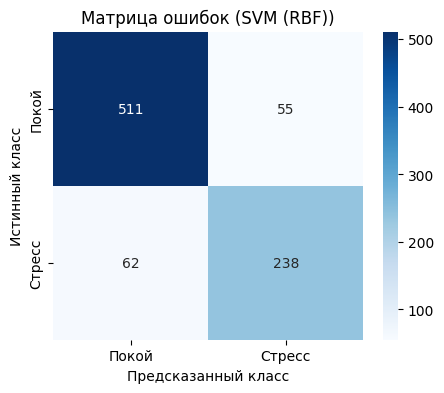
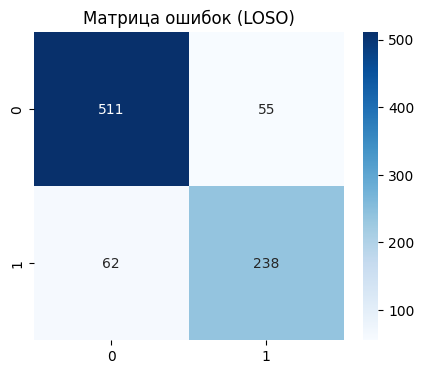
feat: add PR curve, local SHAP, HR trend and performance margins

diff --git a/src/models/train.py b/src/models/train.py
@@ -7,7 +7,8 @@ import seaborn as sns
 from sklearn.model_selection import LeaveOneGroupOut
 from sklearn.ensemble import GradientBoostingClassifier, RandomForestClassifier
 from sklearn.svm import SVC
-from sklearn.metrics import accuracy_score, f1_score, roc_auc_score, confusion_matrix, roc_curve, auc
+from sklearn.metrics import accuracy_score, f1_score, roc_auc_score, confusion_matrix, roc_curve, auc, \
+    average_precision_score, PrecisionRecallDisplay
 from sklearn.preprocessing import StandardScaler
 from sklearn.pipeline import Pipeline
 from sklearn.base import clone
@@ -16,11 +17,12 @@ from src.config import DATA_DIR, MODELS_DIR, REPORTS_DIR, FIGURES_DIR
 from src.logger import get_logger
 
 logger = get_logger("Train")
+REPORTS_TABLES_DIR = os.path.join(REPORTS_DIR, 'tables')
+os.makedirs(REPORTS_TABLES_DIR, exist_ok=True)
 
 
 def main():
-    data_path = os.path.join(DATA_DIR, 'processed_features.csv')
-    df = pd.read_csv(data_path)
+    df = pd.read_csv(os.path.join(DATA_DIR, 'processed_features.csv'))
     logger.info(f"Данные загружены. Размер: {df.shape}")
 
     X = df.drop(columns=['target_label', 'subject_id'])
@@ -37,21 +39,20 @@ def main():
 
     logo = LeaveOneGroupOut()
     results = []
+    subject_results = []  # Для отчета по каждому пациенту
 
     logger.info("Старт LOSO Cross-Validation...")
 
-    # Для сохранения данных лучшей модели для графиков
     best_y_true, best_y_prob, best_y_pred = [], [], []
     best_auc_global = 0.0
     best_model_name = ""
 
     for name, template in models.items():
-        logger.info(f"Обучение {name}...")
-        fold_acc, fold_f1, fold_auc = [], [], []
-
+        fold_acc, fold_f1, fold_auc, fold_pr = [], [], [], []
         y_true_all, y_prob_all, y_pred_all = [], [], []
 
         for train_idx, test_idx in logo.split(X, y, groups):
+            current_subject = groups[test_idx[0]]
             X_train, X_test = X.iloc[train_idx], X.iloc[test_idx]
             y_train, y_test = y[train_idx], y[test_idx]
 
@@ -65,17 +66,30 @@ def main():
             y_prob_all.extend(y_prob)
             y_pred_all.extend(y_pred)
 
-            fold_acc.append(accuracy_score(y_test, y_pred))
-            fold_f1.append(f1_score(y_test, y_pred, zero_division=0))
+            # Метрики фолда
+            acc = accuracy_score(y_test, y_pred)
+            f1 = f1_score(y_test, y_pred, zero_division=0)
+            fold_acc.append(acc)
+            fold_f1.append(f1)
+
+            auc_val, pr_auc = 0.0, 0.0
             if len(np.unique(y_test)) > 1:
-                fold_auc.append(roc_auc_score(y_test, y_prob))
+                auc_val = roc_auc_score(y_test, y_prob)
+                pr_auc = average_precision_score(y_test, y_prob)
+                fold_auc.append(auc_val)
+                fold_pr.append(pr_auc)
+
+            # Сохраняем результат для конкретного человека (только для лучшей модели в будущем)
+            subject_results.append(
+                {"Model": name, "Subject": current_subject, "Accuracy": acc, "F1": f1, "AUC": auc_val})
 
         mean_auc = np.mean(fold_auc) if fold_auc else 0.0
         results.append({
             "Model": name,
             "Accuracy": np.mean(fold_acc),
             "F1-score": np.mean(fold_f1),
-            "ROC AUC": mean_auc
+            "ROC AUC": mean_auc,
+            "PR AUC": np.mean(fold_pr) if fold_pr else 0.0
         })
 
         if mean_auc > best_auc_global:
@@ -83,49 +97,60 @@ def main():
             best_model_name = name
             best_y_true, best_y_prob, best_y_pred = y_true_all, y_prob_all, y_pred_all
 
-    # Логируем результаты
+    # Сохраняем сводную таблицу
     df_results = pd.DataFrame(results).sort_values(by="ROC AUC", ascending=False)
-    logger.info(f"\n{df_results.to_string(index=False)}")
-    df_results.to_csv(os.path.join(REPORTS_DIR, 'tables', 'model_comparison.csv'), index=False)
+    df_results.to_csv(os.path.join(REPORTS_TABLES_DIR, 'model_comparison.csv'), index=False)
 
-    logger.info("Генерация графиков...")
+    # Сохраняем отчет по субъектам для ЛУЧШЕЙ модели
+    df_subj = pd.DataFrame(subject_results)
+    df_subj_best = df_subj[df_subj["Model"] == best_model_name].sort_values(by="AUC", ascending=False)
+    df_subj_best.to_csv(os.path.join(REPORTS_TABLES_DIR, 'per_subject_performance.csv'), index=False)
+
+    logger.info(f"\nЛучшая модель: {best_model_name} (AUC: {best_auc_global:.4f})")
+    logger.info(
+        f"Лучший субъект: {df_subj_best.iloc[0]['Subject']} | Худший субъект: {df_subj_best.iloc[-1]['Subject']}")
 
     # ROC Curve
     fpr, tpr, _ = roc_curve(best_y_true, best_y_prob)
     plt.figure(figsize=(6, 5))
-    plt.plot(fpr, tpr, color='darkorange', lw=2, label=f'{best_model_name} (AUC = {best_auc_global:.2f})')
+    plt.plot(fpr, tpr, color='darkorange', lw=2, label=f'AUC = {best_auc_global:.2f}')
     plt.plot([0, 1], [0, 1], color='navy', lw=2, linestyle='--')
-    plt.xlabel('False Positive Rate')
-    plt.ylabel('True Positive Rate')
-    plt.title('ROC-кривая (LOSO Validation)')
+    plt.title(f'ROC-кривая ({best_model_name})')
     plt.legend(loc="lower right")
     plt.savefig(os.path.join(FIGURES_DIR, 'roc_curve.png'), bbox_inches='tight')
     plt.close()
 
+    # Precision-Recall Curve
+    PrecisionRecallDisplay.from_predictions(best_y_true, best_y_prob, name=best_model_name)
+    plt.title('Precision-Recall Curve')
+    plt.savefig(os.path.join(FIGURES_DIR, 'pr_curve.png'), bbox_inches='tight')
+    plt.close()
+
     # Confusion Matrix
     plt.figure(figsize=(5, 4))
-    sns.heatmap(confusion_matrix(best_y_true, best_y_pred), annot=True, fmt='d', cmap='Blues',
-                xticklabels=['Покой', 'Стресс'], yticklabels=['Покой', 'Стресс'])
-    plt.title(f'Матрица ошибок ({best_model_name})')
-    plt.ylabel('Истинный класс')
-    plt.xlabel('Предсказанный класс')
+    sns.heatmap(confusion_matrix(best_y_true, best_y_pred), annot=True, fmt='d', cmap='Blues')
+    plt.title(f'Матрица ошибок (LOSO)')
     plt.savefig(os.path.join(FIGURES_DIR, 'confusion_matrix.png'), bbox_inches='tight')
     plt.close()
 
-    # ОБУЧЕНИЕ ДВУХ PRODUCTION МОДЕЛЕЙ
-    logger.info(f"Обучение Production-моделей на базе {best_model_name}...")
+    # ОБУЧЕНИЕ FULL и FAST версий
+    logger.info("Обучение Production-моделей...")
     best_template = models[best_model_name]
 
-    model_full = clone(best_template)
-    model_full.fit(X, y)
+    # FULL
+    model_full = clone(best_template).fit(X, y)
     joblib.dump(model_full, os.path.join(MODELS_DIR, 'model_full.joblib'))
 
+    # FAST
     X_fast = X.drop(columns=['sampen', 'corr_dim'])
-    model_fast = clone(best_template)
-    model_fast.fit(X_fast, y)
+    model_fast = clone(best_template).fit(X_fast, y)
     joblib.dump(model_fast, os.path.join(MODELS_DIR, 'model_fast.joblib'))
 
-    logger.info("Обучение завершено. Графики и модели сохранены.")
+    # Оценка FAST на всем датасете
+    y_fast_pred = model_fast.predict(X_fast)
+    fast_acc = accuracy_score(y, y_fast_pred)
+    full_acc = accuracy_score(y, model_full.predict(X))
+    logger.info(f"Сравнение: Точность Full-режима = {full_acc:.4f} | Точность Fast-режима = {fast_acc:.4f}")
 
 
 if __name__ == "__main__":

diff --git a/app/main_ui.py b/app/main_ui.py
@@ -23,6 +23,7 @@ if 'history_proc_time' not in st.session_state: st.session_state.history_proc_ti
 if 'last_result' not in st.session_state: st.session_state.last_result = None
 if 'prev_metrics' not in st.session_state: st.session_state.prev_metrics = None
 if 'current_subject' not in st.session_state: st.session_state.current_subject = None
+if 'history_hr' not in st.session_state: st.session_state.history_hr =[]
 
 
 @st.cache_resource
@@ -63,32 +64,38 @@ def plot_attractor(rr, delay=1):
     return fig
 
 
-def plot_trend():
-    fig = go.Figure()
+from plotly.subplots import make_subplots  # Добавь этот импорт сверху
 
-    # Цветовые зоны (Зеленая - Покой, Красная - Стресс)
-    fig.add_hrect(y0=0.0, y1=0.5, fillcolor="green", opacity=0.1, line_width=0)
-    fig.add_hrect(y0=0.5, y1=1.0, fillcolor="red", opacity=0.1, line_width=0)
+
+def plot_trend():
+    # Создаем график с двумя осями Y (Вероятность и Пульс)
+    fig = make_subplots(specs=[[{"secondary_y": True}]])
+
+    # Зоны стресса
+    fig.add_hrect(y0=0.0, y1=0.5, fillcolor="green", opacity=0.1, line_width=0, secondary_y=False)
+    fig.add_hrect(y0=0.5, y1=1.0, fillcolor="red", opacity=0.1, line_width=0, secondary_y=False)
 
     if st.session_state.history_time:
+        # Линия 1: Вероятность стресса
         fig.add_trace(go.Scatter(
-            x=st.session_state.history_time,
-            y=st.session_state.history_prob,
-            mode='lines+markers',
-            line=dict(color='#ff4b4b', width=3),
-            name="Вероятность"
-        ))
+            x=st.session_state.history_time, y=st.session_state.history_prob,
+            mode='lines+markers', line=dict(color='#ff4b4b', width=3), name="Вероятность стресса"
+        ), secondary_y=False)
 
-    fig.add_hline(y=0.5, line_dash="dash", line_color="white", annotation_text="Порог детекции (0.5)")
+        # Линия 2: Пульс (ЧСС)
+        fig.add_trace(go.Scatter(
+            x=st.session_state.history_time, y=st.session_state.history_hr,
+            mode='lines', line=dict(color='#00d4ff', width=2, dash='dot'), name="Пульс (уд/мин)", opacity=0.7
+        ), secondary_y=True)
+
+    fig.add_hline(y=0.5, line_dash="dash", line_color="white", secondary_y=False)
     fig.update_layout(
-        title="Динамика вероятности стресса",
-        yaxis_title="Вероятность",
-        xaxis_title="Время мониторинга (сек)",
-        yaxis=dict(range=[0, 1.05]),
-        height=350,
-        margin=dict(l=0, r=0, b=0, t=30),
-        template="plotly_dark"
+        title="Динамика состояния пациента",
+        height=350, margin=dict(l=0, r=0, b=0, t=30), template="plotly_dark",
+        legend=dict(orientation="h", yanchor="bottom", y=1.02, xanchor="right", x=1)
     )
+    fig.update_yaxes(title_text="Вероятность", range=[0, 1.05], secondary_y=False)
+    fig.update_yaxes(title_text="Пульс", secondary_y=True, showgrid=False)
     return fig
 
 
@@ -98,6 +105,8 @@ mode = st.sidebar.radio("Режим анализа:", ["Fast (Быстрый)", 
 speed_sec = st.sidebar.slider("Шаг симуляции (сек):", 5, 30, 10, 5)
 
 is_fast = "Fast" in mode
+
+step_size_sec = speed_sec
 
 # Информация о модели в сайдбаре
 st.sidebar.markdown("---")
@@ -144,6 +153,7 @@ if st.session_state.is_running:
                 # Обновляем историю
                 current_time_sec = (st.session_state.current_idx - start_idx) // fs
                 st.session_state.history_prob.append(res['probability'])
+                st.session_state.history_hr.append(60000 / res['features']['mean_rr'])
                 st.session_state.history_time.append(current_time_sec)
                 st.session_state.history_proc_time.append(res['processing_time_sec'])
 
@@ -199,7 +209,8 @@ if st.session_state.last_result:
         # Вывод статистики производительности
         if st.session_state.history_proc_time:
             avg_time = np.mean(st.session_state.history_proc_time)
-            st.caption(f"⏱ Среднее время обработки одного окна: **{avg_time:.3f} сек.**")
+            margin = step_size_sec - avg_time
+            st.caption(f"⏱ Среднее время обработки окна: **{avg_time:.3f} сек.** | Запас до real-time: **{margin:.3f} сек.**")
 
 else:
     st.info("👈 Выберите пациента в меню слева и нажмите 'Старт' для начала симуляции потокового мониторинга.")

diff --git a/src/models/explain.py b/src/models/explain.py
@@ -48,10 +48,26 @@ def main():
     plt.figure(figsize=(10, 6))
     shap.summary_plot(shap_values, X_sample, show=False)
 
-    fig_path = os.path.join(FIGURES_DIR, 'shap_summary_svm.png')
-    plt.tight_layout()
-    plt.savefig(fig_path, dpi=300, bbox_inches='tight')
-    logger.info(f"График SHAP успешно сохранен в: {fig_path}")
+    # Локальная интерпретация (Local Explanation) для одного окна со стрессом
+    logger.info("Генерация локального объяснения (Local Explanation)...")
+
+    # Находим индекс окна, где реально был стресс
+    stress_indices = df[df['target_label'] == 1].index
+    if len(stress_indices) > 0:
+        sample_idx = stress_indices[0]
+        instance = X.iloc[sample_idx]
+
+        shap_val_single = explainer.shap_values(instance.to_frame())
+
+        base_value = explainer.expected_value
+
+        plt.figure(figsize=(12, 4))
+        shap.force_plot(base_value, shap_val_single, instance, matplotlib=True, show=False)
+
+        fig_path_local = os.path.join(FIGURES_DIR, 'shap_local_explanation.png')
+        plt.savefig(fig_path_local, dpi=300, bbox_inches='tight')
+        plt.close()
+        logger.info(f"Локальное объяснение сохранено в: {fig_path_local}")
 
 
 if __name__ == "__main__":
